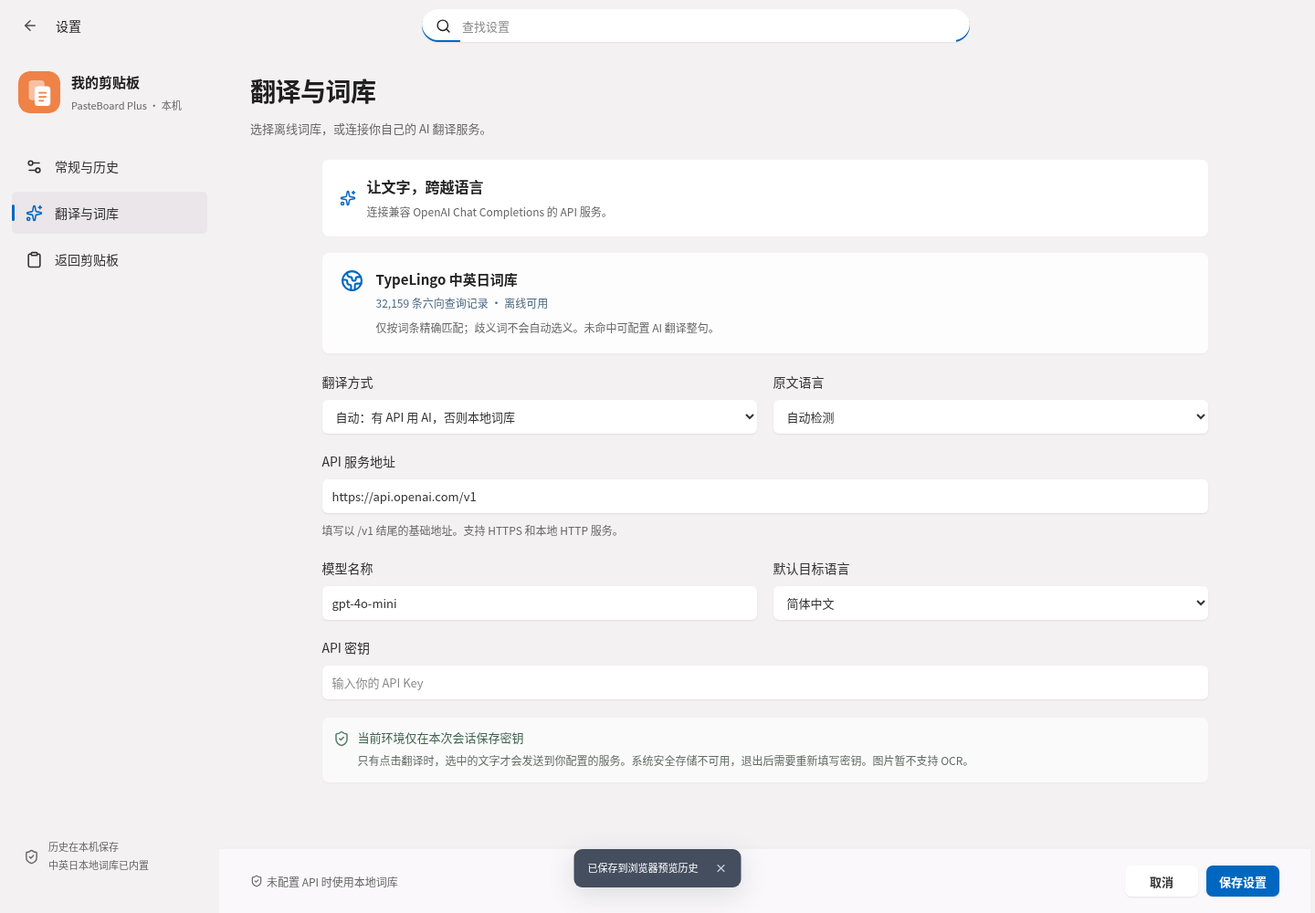
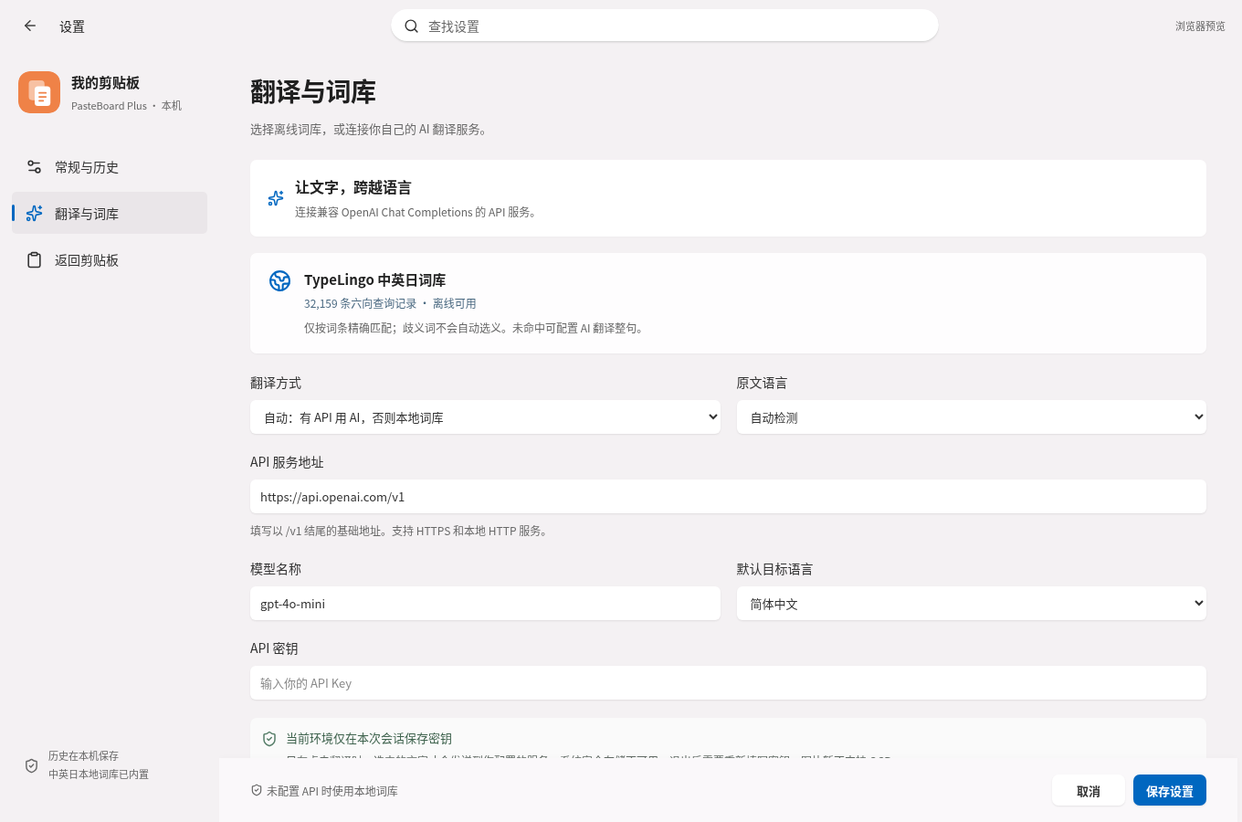
Unify large windows with Win11 Settings styling and fix unrecognized paste targets

diff --git a/src/App.tsx b/src/App.tsx
@@ -1,4 +1,4 @@
-import { useEffect, useMemo, useRef, useState, type ReactNode } from 'react';
+import { useEffect, useMemo, useRef, useState, type ReactNode, type Ref } from 'react';
 import { AlignLeft, ArrowDownUp, ArrowLeft, ArrowRight, Check, CheckCheck, ChevronDown, ChevronRight, Clipboard, ClipboardCheck, Code2, Copy, Folder, FolderOpen, Globe2, Image as ImageIcon, Keyboard, LayoutGrid, List, LoaderCircle, Maximize2, Minus, MoreHorizontal, Pause, Pin, Play, Plus, Search, Settings2, ShieldCheck, Sparkles, Tag, Trash2, X } from 'lucide-react';
 import { bridge } from './bridge';
 import CompactBoard from './CompactBoard';
@@ -18,6 +18,11 @@ function relativeTime(time: number) {
 }
 function shortcutParts(shortcut: string) { return shortcut.replace('CommandOrControl', bridge.platform === 'darwin' ? '⌘' : 'Ctrl').replace('Control', 'Ctrl').replace('Super', 'Win').split('+'); }
 function Shortcut({ value, small = false }: { value: string; small?: boolean }) { return <span className={`shortcut ${small ? 'small' : ''}`}>{shortcutParts(value).map((part, i) => <kbd key={i}>{part}</kbd>)}</span>; }
+function WindowHeader({ title, onBack, backLabel, search, onSearch, searchLabel, placeholder, inputRef, settings = false }: {
+  title: string; onBack(): void; backLabel: string; search: string; onSearch(value: string): void; searchLabel: string; placeholder: string; inputRef?: Ref<HTMLInputElement>; settings?: boolean;
+}) {
+  return <header className="fluent-window-caption"><div className="fluent-window-label"><button onClick={onBack} aria-label={backLabel}><ArrowLeft size={18} /></button><span>{title}</span></div><div className="fluent-window-search"><Search size={17} /><input ref={inputRef} aria-label={searchLabel} placeholder={placeholder} value={search} onChange={event => onSearch(event.target.value)} />{search && <button onClick={() => onSearch('')} aria-label={settings ? '清空设置搜索' : '清空搜索'}><X size={15} /></button>}</div><div className="fluent-window-controls">{bridge.isDesktop ? <div className="window-actions"><button onClick={() => void bridge.windowAction('minimize')} aria-label="最小化窗口"><Minus size={15} /></button><button onClick={() => void bridge.windowAction('maximize')} aria-label="最大化窗口"><Maximize2 size={13} /></button><button onClick={() => settings ? onBack() : void bridge.windowAction('hide')} aria-label={settings ? '关闭设置' : '收起到托盘'}><X size={18} /></button></div> : <span className="fluent-preview-tag">浏览器预览</span>}</div></header>;
+}
 function Modal({ title, subtitle, children, onClose, wide = false }: { title: string; subtitle?: string; children: ReactNode; onClose(): void; wide?: boolean }) {
   const container = useRef<HTMLDivElement>(null);
   const close = useRef(onClose);
@@ -71,7 +76,7 @@ function SettingsModal({ snapshot, initialTab, onClose, onSaved }: { snapshot: S
     finally { setSaving(false); }
   }
   return <div className="fluent-settings" role="dialog" aria-label="偏好设置" aria-modal="true">
-    <header className="fluent-settings-caption"><button onClick={onClose} aria-label="关闭弹窗"><ArrowLeft size={18} /></button><span>设置</span><div className="fluent-settings-search"><Search size={17} /><input aria-label="搜索设置" placeholder="查找设置" value={settingsSearch} onChange={event => { const query = event.target.value; setSettingsSearch(query); if (/api|翻译|语言|词库|模型|密钥/i.test(query)) setTab('ai'); else if (/快捷|历史|记录|图片|字体|粘贴|常规/i.test(query)) setTab('general'); }} /></div>{bridge.isDesktop && <div className="window-actions"><button onClick={() => void bridge.windowAction('minimize')} aria-label="最小化窗口"><Minus size={15} /></button><button onClick={() => void bridge.windowAction('maximize')} aria-label="最大化窗口"><Maximize2 size={13} /></button><button onClick={onClose} aria-label="关闭设置"><X size={18} /></button></div>}</header>
+    <WindowHeader title="设置" onBack={onClose} backLabel="关闭弹窗" settings search={settingsSearch} searchLabel="搜索设置" placeholder="查找设置" onSearch={query => { setSettingsSearch(query); if (/api|翻译|语言|词库|模型|密钥/i.test(query)) setTab('ai'); else if (/快捷|历史|记录|图片|字体|粘贴|常规/i.test(query)) setTab('general'); }} />
     <div className="fluent-settings-layout"><aside className="fluent-settings-nav"><div className="fluent-settings-profile"><img src="./icon.svg" alt="" /><div><strong>我的剪贴板</strong><span>PasteBoard Plus · 本机</span></div></div><button className={tab === 'general' ? 'active' : ''} onClick={() => { setTab('general'); setSettingsSearch(''); }}><Settings2 size={19} />常规与历史</button><button className={tab === 'ai' ? 'active' : ''} onClick={() => { setTab('ai'); setSettingsSearch(''); }}><Sparkles size={19} />翻译与词库</button><button onClick={onClose}><Clipboard size={19} />返回剪贴板</button><div className="fluent-settings-nav-footer"><ShieldCheck size={17} /><span>历史在本机保存<br />中英日本地词库已内置</span></div></aside><main className="fluent-settings-main"><div className="fluent-settings-page-title"><h1>{tab === 'general' ? '常规与历史' : '翻译与词库'}</h1><p>{tab === 'general' ? '自定义剪贴板的显示、快捷键和记录方式。' : '选择离线词库，或连接你自己的 AI 翻译服务。'}</p></div>
     <div className="settings-body">{tab === 'general' ? <>
       <div className="settings-section-title"><Keyboard size={18} /><div><h3>随时，唤起灵感</h3><p>在任何应用中，按下快捷键打开或收起剪贴板。</p></div></div>
@@ -200,21 +205,21 @@ export default function App() {
 
   if (snapshot.windowMode === 'compact') return <><CompactBoard snapshot={snapshot} onManage={id => void openManager(id)} onSettings={tab => void openCompactSettings(tab)} onError={message => notify(message, true)} />{toast && <div className={`toast ${toast.error ? 'error' : ''}`} role={toast.error ? 'alert' : 'status'}>{toast.message}<button aria-label="关闭提示" onClick={() => setToast(null)}><X size={14} /></button></div>}</>;
   if (settingsTab) return <><SettingsModal snapshot={snapshot} initialTab={settingsTab} onClose={closeSettings} onSaved={message => notify(message)} />{toast && <div className={`toast ${toast.error ? 'error' : ''}`} role={toast.error ? 'alert' : 'status'}>{toast.message}<button aria-label="关闭提示" onClick={() => setToast(null)}><X size={14} /></button></div>}</>;
-  return <div className="application">
-    <header className="titlebar"><div className="titlebar-brand"><img src="./icon.svg" alt="" /><span>PasteBoard <strong>Plus</strong></span><span className="version-badge">{bridge.isDesktop ? '0.1' : '浏览器预览'}</span></div><button className="return-compact" onClick={() => void run(() => bridge.setWindowMode('compact'))}><ArrowLeft size={13} /> 返回小窗口</button><div className="titlebar-center">给每一次复制，一个好去处。</div>{bridge.isDesktop ? <div className="window-actions"><button aria-label="最小化窗口" onClick={() => void bridge.windowAction('minimize')}><Minus size={15} /></button><button aria-label="最大化窗口" onClick={() => void bridge.windowAction('maximize')}><Maximize2 size={12} /></button><button aria-label="收起到托盘" onClick={() => void bridge.windowAction('hide')}><X size={16} /></button></div> : <span className="preview-label"><Globe2 size={12} /> WEB PREVIEW</span>}</header>
+  return <div className="application fluent-manager">
+    <WindowHeader title="剪贴板" onBack={() => void run(() => bridge.setWindowMode('compact'))} backLabel="返回小窗口" search={search} onSearch={setSearch} searchLabel="搜索历史记录" placeholder="搜索内容、链接或译文…" inputRef={searchRef} />
     <div className="workspace">
-      <aside className="sidebar"><div className="workspace-label"><div className="workspace-avatar"><Clipboard size={17} /></div><div><strong>我的剪贴板</strong><span>你的灵感中转站</span></div><ChevronDown size={14} /></div>
+      <aside className="sidebar"><div className="workspace-label"><img src="./icon.svg" alt="" /><div><strong>我的剪贴板</strong><span>PasteBoard Plus · 本机</span></div></div>
         <div className="navigation"><span className="section-label">工作空间</span>{navItem('all', '所有记录', <LayoutGrid size={17} />, entries.length)}{navItem('pinned', '置顶收藏', <Pin size={17} />, pinnedCount)}
           <span className="section-label category-label">智能分类</span>{Object.entries(kindLabels).map(([kind, label]) => { const Icon = kindIcons[kind as ContentKind]; return navItem(kind, label, <Icon size={17} />, counts[kind]); })}
           <div className="section-label custom-label">我的分类<button className="sidebar-add" onClick={() => { setCategoryModal(true); setCategoryError(''); setCategoryName(''); }} aria-label="新建分类"><Plus size={15} /></button></div>
           {categories.map(category => navItem(`category:${category.id}`, category.name, <span className="category-dot" style={{ background: category.color }} />, entries.filter(entry => entry.categoryId === category.id).length))}
           {!categories.length && <button className="empty-category" onClick={() => setCategoryModal(true)}><Plus size={14} /> 创建你的第一个分类</button>}
         </div>
-        <div className="sidebar-bottom"><div className="storage-info"><span>本地历史记录</span><strong>{entries.length}<span> / {settings.historyLimit === 0 ? '∞' : settings.historyLimit}</span></strong><div className="storage-track"><div style={{ width: `${Math.min(100, (settings.historyLimit === 0 ? 0 : (entries.length - pinnedCount) / settings.historyLimit * 100))}%` }} /></div><p><ShieldCheck size={12} /> 本地存储，安心留存</p></div><button className="sidebar-settings" onClick={() => setSettingsTab('general')}><Settings2 size={17} /> 偏好设置<span>{bridge.platform === 'darwin' ? '⌘' : 'Ctrl'} ,</span></button><div className="sidebar-signature"><span className="tiny-logo">p<span>+</span></span> Small things. Better flow.</div></div>
+        <div className="sidebar-bottom"><div className="storage-info"><span>本地历史记录</span><strong>{entries.length}<span> / {settings.historyLimit === 0 ? '∞' : settings.historyLimit}</span></strong><div className="storage-track"><div style={{ width: `${Math.min(100, (settings.historyLimit === 0 ? 0 : (entries.length - pinnedCount) / settings.historyLimit * 100))}%` }} /></div><p><ShieldCheck size={12} /> 本地存储，安心留存</p></div><button className="sidebar-settings" onClick={() => setSettingsTab('general')}><Settings2 size={17} /> 偏好设置<span>{bridge.platform === 'darwin' ? '⌘' : 'Ctrl'} ,</span></button></div>
       </aside>
 
       <main className="main-panel"><div className="main-heading"><div className="breadcrumb">工作空间 <ChevronRight size={12} /> 剪贴板</div><div className="heading-row"><div><h1>{filterLabel}<span className="heading-count">{filtered.length}</span></h1><p>留住刚刚复制的，也留住转瞬即逝的灵感。</p></div><button className="button secondary capture-button" onClick={() => void run(async () => { const result = await bridge.capture(); notify(result.message); })}><Plus size={16} /> 捕获剪贴板</button></div>
-        <div className="toolbar"><div className="search-box"><Search size={17} /><input ref={searchRef} aria-label="搜索历史记录" placeholder="搜索内容、链接或译文…" value={search} onChange={event => setSearch(event.target.value)} />{search ? <button aria-label="清空搜索" onClick={() => setSearch('')}><X size={14} /></button> : <span className="search-key">{bridge.platform === 'darwin' ? '⌘' : 'Ctrl'} F</span>}</div><div className="layout-switch"><button className={layout === 'grid' ? 'active' : ''} onClick={() => setLayout('grid')} aria-label="网格视图"><LayoutGrid size={16} /></button><button className={layout === 'list' ? 'active' : ''} onClick={() => setLayout('list')} aria-label="列表视图"><List size={17} /></button></div><details className="more-menu"><summary aria-label="更多操作"><MoreHorizontal size={20} /></summary><div><button onClick={() => { setClearModal(true); setClearPinned(false); }}><Trash2 size={15} /> 清理历史记录</button>{currentCategory && <button onClick={() => setDeleteCategoryModal(true)}><Tag size={15} /> 删除当前分类</button>}</div></details></div>
+        <div className="toolbar"><span className="manager-toolbar-label">历史记录 <span>· {filtered.length} 条</span></span><div className="layout-switch"><button className={layout === 'grid' ? 'active' : ''} onClick={() => setLayout('grid')} aria-label="网格视图"><LayoutGrid size={16} /></button><button className={layout === 'list' ? 'active' : ''} onClick={() => setLayout('list')} aria-label="列表视图"><List size={17} /></button></div><details className="more-menu"><summary aria-label="更多操作"><MoreHorizontal size={20} /></summary><div><button onClick={() => { setClearModal(true); setClearPinned(false); }}><Trash2 size={15} /> 清理历史记录</button>{currentCategory && <button onClick={() => setDeleteCategoryModal(true)}><Tag size={15} /> 删除当前分类</button>}</div></details></div>
       </div>
         {snapshot.warning && <div className="warning-banner" role="alert">{snapshot.warning}</div>}
         {!bridge.isDesktop && <div className="browser-banner"><Globe2 size={14} /><span>浏览器预览 · 历史仅保存在此浏览器；自动监听和全局快捷键请使用桌面版。</span>{entries.length === 0 && <button onClick={() => void run(() => bridge.loadExamples!())}>查看示例 <ArrowRight size={13} /></button>}</div>}
@@ -225,7 +230,7 @@ export default function App() {
         <footer className="main-status"><button className={`capture-status ${settings.captureEnabled ? 'enabled' : ''}`} onClick={() => void run(() => bridge.saveSettings({ ...settings, captureEnabled: !settings.captureEnabled }), settings.captureEnabled ? '已暂停记录' : '已继续记录')}><span className="status-dot" />{bridge.isDesktop ? settings.captureEnabled ? '正在记录剪贴板' : '已暂停记录' : '浏览器手动捕获'}{settings.captureEnabled ? <Pause size={11} /> : <Play size={11} />}</button><button className="status-shortcut" onClick={() => setSettingsTab('general')}><Keyboard size={13} /><Shortcut value={settings.shortcut} small /><span>唤出{bridge.isDesktop && !snapshot.shortcutRegistered ? ' · 未注册' : ''}</span></button></footer>
       </main>
 
-      <aside className={`detail-panel ${detailOpen ? 'mobile-open' : ''}`}><div className="detail-heading"><span>内容详情</span><span className="detail-label">INSPECTOR</span><button className="icon-button mobile-detail-close" aria-label="关闭详情" onClick={() => setDetailOpen(false)}><X size={18} /></button></div>{selected ? <>
+      <aside className={`detail-panel ${detailOpen ? 'mobile-open' : ''}`}><div className="detail-heading"><span>内容详情</span><span className="detail-label">预览与翻译</span><button className="icon-button mobile-detail-close" aria-label="关闭详情" onClick={() => setDetailOpen(false)}><X size={18} /></button></div>{selected ? <>
         <div className="detail-intro"><div className={`type-icon large ${selected.kind}`}>{(() => { const Icon = kindIcons[selected.kind]; return <Icon size={21} />; })()}</div><div><h2>{titleOf(selected.content, selected.kind)}</h2><span>{kindLabels[selected.kind]}<span className="subheading-dot">·</span>{relativeTime(selected.updatedAt)}</span></div><button className={`icon-button detail-pin ${selected.pinned ? 'is-pinned' : ''}`} aria-label={selected.pinned ? '取消详情置顶' : '置顶当前记录'} onClick={() => void run(() => bridge.pin(selected.id))}><Pin size={16} fill={selected.pinned ? 'currentColor' : 'none'} /></button></div>
         <div className="detail-tabs"><button className={detailTab === 'original' ? 'active' : ''} onClick={() => setDetailTab('original')}>原始内容</button><button className={detailTab === 'translation' ? 'active' : ''} onClick={() => setDetailTab('translation')}><Sparkles size={13} /> AI 翻译{selected.translation && <span className="translation-dot" />}</button></div>
         <div className="detail-scroll">{detailTab === 'original' ? <div className={`detail-content ${selected.kind === 'code' || selected.kind === 'path' ? 'monospace' : ''}`}>{selected.kind === 'image' && selected.image ? <button className="detail-image" onClick={() => void run(async () => setImagePreview(await bridge.getImage(selected.id)))} aria-label="查看原图"><img src={selected.image.thumbnail} alt="剪贴板图片预览" /><span><Maximize2 size={13} /> 查看原图</span></button> : <div className="original-text" data-testid="original-content">{selected.content}</div>}</div> : <div className="translation-result">{translatingId === selected.id ? <div className="translation-placeholder"><div className="ai-orb"><Sparkles size={26} className="pulse" /></div><h3>让文字跨越语言…</h3><p>正在请求你配置的 AI 服务</p></div> : selected.translation ? <><div className="translation-result-label"><span><CheckCheck size={14} />{LANGUAGES[selected.translation.language]} · {selected.translation.provider === 'local' ? '本地词库' : 'AI 翻译'}</span><button className="icon-button" aria-label="复制译文" onClick={() => void run(() => bridge.copyTranslation(selected.id), '译文已复制')}><Copy size={15} /></button></div><div className="translated-text" data-testid="translated-content">{selected.translation.text}</div></> : <div className="translation-placeholder"><div className="ai-orb"><Sparkles size={26} /></div><h3>好的表达，不止一种语言</h3><p>{selected.kind === 'image' ? '图片暂不支持文字识别。\n选择一段文字，试试 AI 翻译。' : '选择目标语言，让 AI 帮你\n准确传递每一句话。'}</p></div>}</div>}

diff --git a/src/fluent-windows.css b/src/fluent-windows.css
@@ -1,0 +1,124 @@
+/* Shared Windows 11 chrome. Keep the search input independent of form-field rules. */
+.fluent-window-caption{height:56px;flex-shrink:0;display:grid;grid-template-columns:240px minmax(0,1fr) 144px;align-items:center;background:#f4f1f3;color:#202020;-webkit-app-region:drag;user-select:none;z-index:5}
+.fluent-window-label{display:flex;align-items:center;gap:16px;padding-left:17px;font-size:14px;min-width:0}
+.fluent-window-label>button{display:grid;place-items:center;width:32px;height:32px;border-radius:4px;color:#424242;-webkit-app-region:no-drag}
+.fluent-window-label>button:hover{background:#00000008}
+.fluent-window-search{width:min(600px,calc(100% - 32px));height:36px;justify-self:center;display:flex;align-items:center;gap:10px;padding:0 14px;background:#ffffffef;border-radius:20px;box-shadow:0 1px 2px #00000012,inset 0 -1px #88888855;color:#333;-webkit-app-region:no-drag;overflow:hidden}
+.fluent-window-caption .fluent-window-search input{display:block;flex:1;width:100%;min-width:0;height:34px;min-height:0;margin:0;padding:0;background:transparent;border:0;border-radius:0;box-shadow:none!important;color:#222;font-size:14px;line-height:normal;align-self:center}
+.fluent-window-caption .fluent-window-search input::placeholder{font-size:14px;color:#696969}
+.fluent-window-search:focus-within{box-shadow:0 1px 2px #00000012,inset 0 -2px #0067c0}
+.fluent-window-search>svg{flex-shrink:0}
+.fluent-window-search>button{width:24px;height:26px;display:grid;place-items:center;border-radius:4px;color:#666}
+.fluent-window-search>button:hover{background:#00000008}
+.fluent-window-controls{height:100%;display:flex;justify-content:flex-end;align-items:stretch;-webkit-app-region:no-drag}
+.fluent-window-controls .window-actions{height:100%}
+.fluent-window-controls .window-actions button{width:46px;color:#333}
+.fluent-window-controls .window-actions button:last-child:hover{color:white;background:#c42b1c}
+.fluent-preview-tag{align-self:center;padding-right:18px;font-size:11px;color:#666}
+.fluent-settings .settings-body{max-width:none;margin:0}
+.fluent-settings-page-title{padding-bottom:23px}
+.fluent-settings-main{padding-top:20px}
+.fluent-settings button:focus-visible,.fluent-manager button:focus-visible,.fluent-manager summary:focus-visible{outline-color:#0067c0}
+
+/* Management uses the same shell, profile, navigation, and surfaces as Settings. */
+.fluent-manager{background:#f4f1f3;color:#202020;--sidebar:240px;--detail:336px;--accent:#0067c0;--muted:#666}
+.fluent-manager .workspace,.fluent-manager .main-panel{background:transparent}
+.fluent-manager .sidebar{width:var(--sidebar);padding:22px 13px 16px;background:transparent;box-shadow:none;gap:0}
+.fluent-manager .workspace-label{padding:0 7px 30px;gap:12px}
+.fluent-manager .workspace-label>img{width:46px;height:46px;border-radius:12px;flex-shrink:0}
+.fluent-manager .workspace-label strong{font-size:15px;color:#202020;margin-bottom:7px;font-weight:600}
+.fluent-manager .workspace-label span{font-size:11px;color:#666;letter-spacing:0}
+.fluent-manager .section-label{font-size:11px;letter-spacing:0;color:#777;padding-left:15px;margin-top:16px;margin-bottom:7px}
+.fluent-manager .section-label:first-child{margin-top:0}
+.fluent-manager .nav-item{height:43px;padding:0 15px;margin:2px 0;gap:13px;color:#333;border-radius:5px;font-size:14px;position:relative;font-weight:400;box-shadow:none}
+.fluent-manager .nav-item:hover{background:#00000005}
+.fluent-manager .nav-item.active{background:#eae6e9;color:#202020}
+.fluent-manager .nav-item.active:before{content:"";position:absolute;left:0;top:12px;height:18px;width:3px;background:#0067c0;border-radius:2px}
+.fluent-manager .nav-item.active .nav-icon{color:#0067c0}
+.fluent-manager .nav-item.active .nav-count{background:transparent;color:#555;font-weight:400}
+.fluent-manager .nav-count{font-size:11px;color:#777}
+.fluent-manager .empty-category{color:#666;font-size:12px;padding-left:15px}
+.fluent-manager .sidebar-bottom{margin-top:16px}
+.fluent-manager .storage-info{padding:12px 15px;background:#ffffff80;border-radius:7px;box-shadow:none}
+.fluent-manager .storage-info>span,.fluent-manager .storage-info p{color:#666;font-size:11px}
+.fluent-manager .storage-info strong{font-size:22px;color:#333}
+.fluent-manager .storage-info strong>span{font-size:14px;color:#777}
+.fluent-manager .storage-track{background:#ddd8de;height:3px;margin-block:10px}
+.fluent-manager .storage-track>div{background:#0067c0}
+.fluent-manager .sidebar-settings{font-size:14px;gap:13px;border-radius:5px;color:#333;box-shadow:none;margin-top:8px}
+.fluent-manager .sidebar-settings:hover{background:#eae6e9}
+.fluent-manager .sidebar-settings>span{font-size:11px;color:#777}
+.fluent-manager .main-heading{padding:24px 28px 0;background:transparent;box-shadow:none}
+.fluent-manager .breadcrumb{font-size:12px;color:#666;margin-bottom:11px}
+.fluent-manager .heading-row h1{font-size:28px;font-weight:600;letter-spacing:-.5px;color:#202020}
+.fluent-manager .heading-count{font-size:13px;background:#e9e5e9;color:#666;padding:3px 9px;border-radius:5px}
+.fluent-manager .heading-row p{font-size:13px;color:#696969;margin-top:10px;line-height:1.8}
+.fluent-manager .capture-button{font-size:12px;color:#333;background:white;box-shadow:0 1px 2px #00000017;border-radius:5px;height:34px;padding:0 12px}
+.fluent-manager .toolbar{margin-top:23px;padding-bottom:18px;gap:9px}
+.manager-toolbar-label{flex:1;font-size:14px;color:#333;font-weight:600}
+.manager-toolbar-label>span{font-size:12px;color:#666;font-weight:400;margin-left:5px}
+.fluent-manager .layout-switch{background:#fff;border-radius:5px;box-shadow:0 1px 2px #00000010}
+.fluent-manager .layout-switch button{color:#666;width:31px;height:31px}
+.fluent-manager .layout-switch button.active{color:#0067c0;background:#e7f0fa;box-shadow:none;border-radius:4px}
+.fluent-manager .more-menu>summary{color:#444;width:31px;height:31px;border-radius:5px;background:#fff;box-shadow:0 1px 2px #00000010}
+.fluent-manager .more-menu>div{background:#fafafa;border-radius:7px;box-shadow:0 4px 20px #00000022}
+.fluent-manager .more-menu button{font-size:13px;color:#333;padding:10px}
+.fluent-manager .records-scroll{padding:0 28px}
+.fluent-manager .records-subheading{padding-top:13px;font-size:12px;color:#666}
+.fluent-manager .sort-control,.fluent-manager .sort-control select{font-size:12px;color:#666}
+.fluent-manager .entries.grid{grid-template-columns:repeat(2,minmax(0,1fr));gap:13px}
+.fluent-manager .entry-card{background:#ffffffdd;border-radius:7px;box-shadow:0 1px 2px #00000015;transition:background .15s,box-shadow .15s}
+.fluent-manager .entry-card:hover{background:white;box-shadow:0 2px 6px #0000001a}
+.fluent-manager .entry-card.selected{background:#f8fbff;box-shadow:inset 3px 0 #0067c0,0 1px 3px #0000001a}
+.fluent-manager .card-heading h3{font-size:14px;font-weight:600;color:#202020}
+.fluent-manager .text-preview,.fluent-manager .url-preview,.fluent-manager .path-preview p{font-size:13px;line-height:1.8;color:#555}
+.fluent-manager .card-footer{font-size:11px;color:#777;background:#ffffff55}
+.fluent-manager .card-time{font-size:10px;color:#777}
+.fluent-manager .card-pin,.fluent-manager .card-copy{color:#666}
+.fluent-manager .card-pin.is-pinned{color:#0067c0}
+.fluent-manager .card-category{background:#edf2f9;color:#4f6d8a}
+.fluent-manager .type-icon{background:#eef3f9;color:#477496}
+.fluent-manager .browser-banner{margin-inline:28px;background:#e9edf3;color:#525f6c;font-size:11px;border-radius:5px;padding:10px 12px}
+.fluent-manager .browser-banner button{color:#0067c0}
+.fluent-manager .main-status{background:transparent;box-shadow:none;font-size:11px;padding-inline:28px;color:#666}
+.fluent-manager .capture-status,.fluent-manager .status-shortcut{color:#666;font-size:11px}
+.fluent-manager .capture-status.enabled{color:#476b58}
+.fluent-manager .records-end{font-size:11px;color:#888}
+.fluent-manager .detail-panel{margin:22px 24px 20px 0;background:#ffffffb8;border-radius:9px;box-shadow:0 1px 2px #0000000c;overflow:hidden;width:var(--detail)}
+.fluent-manager .detail-heading{font-size:13px;color:#333;border-bottom:1px solid #00000008}
+.fluent-manager .detail-label{font-size:10px;color:#777;letter-spacing:0}
+.fluent-manager .detail-intro h2{font-size:15px;color:#222}
+.fluent-manager .detail-intro>div:nth-child(2)>span{font-size:11px;color:#777}
+.fluent-manager .detail-tabs button{font-size:13px;color:#666}
+.fluent-manager .detail-tabs button.active{color:#0067c0}
+.fluent-manager .detail-tabs button.active:after{background:#0067c0}
+.fluent-manager .original-text,.fluent-manager .translated-text{font-size:14px;line-height:1.9;color:#333}
+.fluent-manager .entry-metadata{background:#f7f6f7;border-radius:6px;padding:12px;color:#666}
+.fluent-manager .entry-metadata>div{font-size:11px;color:#666}
+.fluent-manager .entry-metadata select{font-size:11px;color:#333;background:white}
+.fluent-manager .ai-box{background:#f2f5fa;border-radius:7px;box-shadow:0 1px 2px #00000008}
+.fluent-manager .ai-box-heading{font-size:13px;color:#333}
+.fluent-manager .language-row,.fluent-manager .language-row select{font-size:12px;color:#555}
+.fluent-manager .translate-button{color:white;background:#0067c0;font-size:13px;border-radius:5px}
+.fluent-manager .ai-box>p{font-size:10px;color:#666}
+.fluent-manager .detail-actions{background:#fff9;box-shadow:0 -1px #00000007}
+.fluent-manager .button.primary{background:#0067c0;color:white;box-shadow:0 1px 2px #00000015;border-radius:5px}
+.fluent-manager .detail-actions>p{font-size:11px;color:#666}
+.fluent-manager .empty-state h2{font-size:19px;color:#333}
+.fluent-manager .empty-state p{font-size:13px;color:#666}
+.fluent-manager .empty-state .eyebrow{color:#777}
+.fluent-manager .empty-shortcut{color:#666;font-size:12px}
+.fluent-manager .detail-empty h3{color:#444;font-size:14px}
+.fluent-manager .detail-empty p{color:#777;font-size:12px}
+.fluent-manager .detail-empty-feature{color:#647a6d;font-size:11px}
+.fluent-manager .modal{background:#faf8fa;color:#222;border-radius:9px}
+.fluent-manager .modal-heading h2{color:#222}.fluent-manager .modal-heading p{color:#666}
+.fluent-manager .modal-footer{background:#f4f1f3}
+.fluent-manager .field-label,.fluent-manager .checkbox-label{font-size:13px;color:#444}
+.fluent-manager .modal input:not([type=checkbox]){background:white;color:#333;box-shadow:0 1px 2px #00000020;font-size:14px}
+.fluent-manager .modal input:focus{box-shadow:0 1px 0 1px #0067c0}
+@media(min-width:1650px){.fluent-manager .entries.grid{grid-template-columns:repeat(3,minmax(0,1fr))}}
+@media(max-width:1100px){.fluent-manager{--detail:292px}.fluent-manager .main-heading{padding-inline:20px}.fluent-manager .records-scroll{padding-inline:20px}.fluent-manager .detail-panel{margin-right:18px}.fluent-manager .browser-banner{margin-inline:20px}.fluent-manager .heading-row p{max-width:250px;font-size:12px}}
+@media(max-width:900px){.fluent-manager .detail-panel{display:none}.fluent-manager .detail-panel.mobile-open{display:flex;position:fixed;top:56px;right:0;bottom:0;margin:0;width:min(350px,calc(100vw - 20px));border-radius:9px 0 0 0;background:#faf8fa;box-shadow:-8px 0 40px #00000020}.fluent-manager .heading-row p{max-width:none}}
+@media(max-width:800px){.fluent-window-caption{grid-template-columns:180px minmax(0,1fr) 120px}.fluent-manager{--sidebar:180px}.fluent-manager .sidebar{padding-inline:9px}.fluent-manager .workspace-label{gap:8px;padding-inline:3px}.fluent-manager .workspace-label>img{width:35px;height:35px}.fluent-manager .workspace-label strong{font-size:13px}.fluent-manager .workspace-label span{font-size:10px}.fluent-manager .nav-item{font-size:13px;padding-inline:11px;gap:10px}.fluent-window-controls .window-actions button{width:39px}}
+@media(max-width:570px){.fluent-window-caption{height:48px;grid-template-columns:96px minmax(0,1fr) 8px}.fluent-window-label{padding-left:7px;gap:4px;font-size:12px}.fluent-window-label>button{width:28px}.fluent-window-search{width:calc(100% - 8px);height:32px;padding-inline:10px;gap:7px}.fluent-window-caption .fluent-window-search input{height:30px;font-size:12px}.fluent-window-caption .fluent-window-search input::placeholder{font-size:12px}.fluent-window-controls{display:none}.fluent-manager{--sidebar:52px;min-height:0}.fluent-manager .sidebar{padding:18px 5px 0}.fluent-manager .workspace-label,.fluent-manager .section-label,.fluent-manager .storage-info,.fluent-manager .sidebar-settings>span,.fluent-manager .empty-category{display:none}.fluent-manager .nav-item{padding:0;justify-content:center;height:40px;margin-bottom:7px}.fluent-manager .nav-item>span:not(.nav-icon){display:none}.fluent-manager .nav-item.active:before{top:11px}.fluent-manager .sidebar-settings{padding:0;justify-content:center}.fluent-manager .main-heading{padding:18px 14px 0}.fluent-manager .breadcrumb{font-size:10px;margin-bottom:8px}.fluent-manager .heading-row h1{font-size:22px}.fluent-manager .heading-row p{font-size:11px;margin-top:8px}.fluent-manager .capture-button{font-size:10px;padding-inline:8px;gap:5px;flex-shrink:0}.fluent-manager .toolbar{margin-top:16px;padding-bottom:13px;gap:7px}.manager-toolbar-label{font-size:12px}.manager-toolbar-label>span{font-size:10px}.fluent-manager .records-scroll{padding-inline:14px}.fluent-manager .entries.grid{grid-template-columns:1fr;gap:12px}.fluent-manager .browser-banner{margin-inline:14px;font-size:10px;line-height:1.7}.fluent-manager .main-status{padding-inline:14px;font-size:10px}.fluent-manager .capture-status{font-size:10px}.fluent-manager .detail-panel.mobile-open{top:48px}.fluent-manager .card-footer{font-size:10px}.fluent-manager .card-heading h3{font-size:14px}.fluent-manager .empty-state h2{font-size:17px}.fluent-manager .empty-state p{font-size:12px}}

diff --git a/electron/main.ts b/electron/main.ts
@@ -7,6 +7,7 @@ import { idSchema, languageSchema, settingsSchema } from './schema';
 import { TranslationService } from './translation-service';
 import { WindowsFocus, type FocusContext } from './windows-focus';
 import { popupPosition } from '../shared/popup-position';
+import { hasFocusTarget } from '../shared/focus-target';
 import type { Snapshot } from '../shared/types';
 import { classify } from '../shared/classify';
 
@@ -46,7 +47,7 @@ function canSecurelyStoreKey() {
 function snapshot(): Snapshot {
   return { windowMode, entries: store.entries, categories: store.categories, settings: store.settings,
     hasApiKey: Boolean(apiKey), keyStorage: canSecurelyStoreKey() ? 'secure' : 'session',
-    shortcutRegistered, warning: captureWarning || store.warning, insertion: { supported: process.platform === 'win32' && !focusError, hasTarget: Boolean(focusTarget?.editable), caretLocated: Boolean(focusTarget?.caretLocated), message: focusError } };
+    shortcutRegistered, warning: captureWarning || store.warning, insertion: { supported: process.platform === 'win32' && !focusError, hasTarget: hasFocusTarget(focusTarget), caretLocated: Boolean(focusTarget?.caretLocated), message: focusError } };
 }
 function broadcast() {
   if (window && !window.isDestroyed()) window.webContents.send('pasteboard:changed', snapshot());
@@ -95,9 +96,19 @@ async function openCompact() {
   const generation = ++opening;
   openingPending = true;
   focusTarget = null; focusError = null;
+  if (process.platform === 'win32' && windowMode === 'manager' && window?.isVisible()) {
+    window.hide();
+    await new Promise(resolve => setTimeout(resolve, 75));
+    if (generation !== opening) return;
+  }
   if (focusService && window) {
     try {
-      const target = await focusService.capture(ownWindowHandle());
+      let target = await focusService.capture(ownWindowHandle());
+      if (!hasFocusTarget(target)) {
+        await new Promise(resolve => setTimeout(resolve, 100));
+        if (generation !== opening) return;
+        target = await focusService.capture(ownWindowHandle());
+      }
       if (generation !== opening) return;
       focusTarget = target;
     } catch (error) { focusError = error instanceof Error ? error.message : '无法读取输入光标。'; }
@@ -339,7 +350,7 @@ else {
     void poll(); timer = setInterval(() => void poll(), 800);
     let following = false;
     focusTimer = setInterval(async () => {
-      if (following || pasting || openingPending || windowMode !== 'compact' || !window?.isVisible() || !focusService || !focusTarget?.editable) return;
+      if (following || pasting || openingPending || windowMode !== 'compact' || !window?.isVisible() || !focusService || !focusTarget || !hasFocusTarget(focusTarget)) return;
       following = true;
       const previous = focusTarget;
       try {

diff --git a/tests/e2e/app.spec.ts b/tests/e2e/app.spec.ts
@@ -129,3 +129,30 @@ test('Win11 popup translates with the supplied dictionary without an API and cop
   await expect(page.getByText('32,159 条六向查询记录 · 离线可用')).toBeVisible();
   await page.screenshot({ path: 'test-results/win11-settings.png', fullPage: true });
 });
+
+test('Win11 manager and settings keep the same aligned search field', async ({ page }) => {
+  await page.setViewportSize({ width: 1360, height: 900 });
+  await page.goto('/');
+  await page.getByRole('button', { name: '管理记录', exact: true }).click();
+  await page.getByRole('button', { name: '体验示例', exact: true }).click();
+  await expect(page.getByRole('heading', { name: '所有记录' })).toBeVisible();
+  const managerSearch = await page.getByRole('textbox', { name: '搜索历史记录' }).boundingBox();
+  await page.screenshot({ path: 'test-results/win11-manager.png' });
+  await page.getByRole('textbox', { name: '搜索历史记录' }).fill('const ideas');
+  await expect(page.getByTestId('entry-card')).toHaveCount(1);
+  await page.getByRole('button', { name: '清空搜索', exact: true }).click();
+  await page.getByRole('button', { name: /^偏好设置/ }).click();
+  const settingsSearch = page.getByRole('textbox', { name: '搜索设置' });
+  const settingsBounds = await settingsSearch.boundingBox();
+  expect(settingsBounds!.x).toBeCloseTo(managerSearch!.x, 0);
+  expect(settingsBounds!.y).toBeCloseTo(managerSearch!.y, 0);
+  expect(settingsBounds!.width).toBeCloseTo(managerSearch!.width, 0);
+  const container = await page.locator('.fluent-window-search').boundingBox();
+  const icon = await page.locator('.fluent-window-search > svg').boundingBox();
+  expect(Math.abs(settingsBounds!.y + settingsBounds!.height / 2 - container!.y - container!.height / 2)).toBeLessThan(1);
+  expect(Math.abs(icon!.y + icon!.height / 2 - container!.y - container!.height / 2)).toBeLessThan(1);
+  await settingsSearch.fill('API');
+  await expect(page.getByRole('heading', { name: '翻译与词库', exact: true })).toBeVisible();
+  await page.getByRole('button', { name: '清空设置搜索' }).click();
+  await page.screenshot({ path: 'test-results/win11-settings-aligned.png' });
+});

diff --git a/tests/windows-focus.test.ts b/tests/windows-focus.test.ts
@@ -1,0 +1,27 @@
+import { describe, expect, it, vi } from 'vitest';
+import { WindowsFocus, type FocusContext } from '../electron/windows-focus';
+import { hasFocusTarget } from '../shared/focus-target';
+
+const chromium: FocusContext = { window: '812', control: '813', process: 1200, elementKey: '', editable: false, caretLocated: false, x: 0, y: 0, width: 0, height: 0 };
+describe('Windows targets without editable accessibility patterns', () => {
+  it('retains a captured keyboard target even when no caret/Edit pattern is exposed', () => {
+    expect(hasFocusTarget(chromium)).toBe(true);
+    expect(hasFocusTarget({ ...chromium, control: '0', elementKey: '42-1-2' })).toBe(true);
+  });
+  it('rejects missing windows and identities instead of sending paste blindly', () => {
+    expect(hasFocusTarget(null)).toBe(false);
+    expect(hasFocusTarget({ ...chromium, window: '0' })).toBe(false);
+    expect(hasFocusTarget({ ...chromium, control: '0' })).toBe(false);
+    expect(hasFocusTarget({ ...chromium, process: 0 })).toBe(false);
+  });
+  it('forwards an unrecognized editor to native focus validation, rather than reporting no input', async () => {
+    const service = new WindowsFocus('/unused');
+    const request = vi.spyOn(service as unknown as { request(command: string, payload: object): Promise<unknown> }, 'request')
+      .mockResolvedValue({ pasted: true, message: 'sent' });
+    await expect(service.paste(chromium)).resolves.toMatchObject({ pasted: true });
+    expect(request).toHaveBeenCalledWith('paste', { window: '812', control: '813', process: 1200, elementKey: '' });
+    request.mockClear();
+    await expect(service.paste({ ...chromium, window: '0' })).resolves.toMatchObject({ pasted: false });
+    expect(request).not.toHaveBeenCalled();
+  });
+});

diff --git a/electron/windows-focus.ts b/electron/windows-focus.ts
@@ -2,6 +2,7 @@ import { spawn, type ChildProcessWithoutNullStreams } from 'node:child_process';
 import { readFileSync } from 'node:fs';
 import { createInterface } from 'node:readline';
 import { join } from 'node:path';
+import { hasFocusTarget } from '../shared/focus-target';
 
 export interface FocusContext { window: string; control: string; process: number; elementKey: string; editable: boolean; caretLocated: boolean; x: number; y: number; width: number; height: number }
 export class WindowsFocus {
@@ -47,7 +48,7 @@ export class WindowsFocus {
   }
   capture(ownWindow: string) { return this.request<FocusContext>('capture', { ownWindow }); }
   paste(target: FocusContext) {
-    if (!target.editable) return Promise.resolve({ pasted: false, message: '未找到原输入框。请先点击目标输入框，再按快捷键唤出。' });
+    if (!hasFocusTarget(target)) return Promise.resolve({ pasted: false, message: '未捕获到原窗口的键盘焦点。内容已复制，请在目标输入框重新按快捷键唤出。' });
     return this.request<{ pasted: boolean; message: string }>('paste', { window: target.window, control: target.control, process: target.process, elementKey: target.elementKey });
   }
   stop() { const child = this.child; this.child = undefined; this.ready = undefined; child?.kill(); for (const item of this.pending.values()) { clearTimeout(item.timer); item.reject(new Error('Windows 输入辅助服务已停止，请重新唤出。')); } this.pending.clear(); }

diff --git a/shared/focus-target.ts b/shared/focus-target.ts
@@ -1,0 +1,7 @@
+export interface TargetIdentity { window: string; control: string; process: number; elementKey: string }
+// Chromium and custom editors may expose a focused HWND without ValuePattern/Edit.
+// A missing editable pattern/caret is not evidence that the original target is gone.
+export function hasFocusTarget(target: TargetIdentity | null | undefined): target is TargetIdentity {
+  return Boolean(target && /^-?[1-9]\d*$/.test(target.window) && target.process > 0
+    && (/^-?[1-9]\d*$/.test(target.control) || target.elementKey));
+}

diff --git a/src/main.tsx b/src/main.tsx
@@ -2,5 +2,6 @@ import React from 'react';
 import { createRoot } from 'react-dom/client';
 import App from './App';
 import './styles.css';
+import './fluent-windows.css';
 
 createRoot(document.getElementById('root')!).render(<React.StrictMode><App /></React.StrictMode>);

diff --git a/assets/windows/FocusBridge.cs b/assets/windows/FocusBridge.cs
@@ -62,9 +62,9 @@ namespace PasteBoardNative {
         if (element == null || element.Current.ProcessId != result.process) return result;
         result.elementKey = string.Join("-", element.GetRuntimeId());
         object pattern;
-        if (element.TryGetCurrentPattern(ValuePattern.Pattern, out pattern)) result.editable = !((ValuePattern)pattern).Current.IsReadOnly;
+        if (element.TryGetCurrentPattern(ValuePattern.Pattern, out pattern)) result.editable = result.editable || !((ValuePattern)pattern).Current.IsReadOnly;
         if (element.Current.ControlType == ControlType.Edit) result.editable = true;
-        if (result.editable && !result.caretLocated && element.TryGetCurrentPattern(TextPattern.Pattern, out pattern)) {
+        if (!result.caretLocated && element.TryGetCurrentPattern(TextPattern.Pattern, out pattern)) {
           var textPattern = (TextPattern)pattern;
           var selection = textPattern.GetSelection();
           if (selection != null && selection.Length > 0) {

diff --git a/README.md b/README.md
@@ -2,13 +2,13 @@
 
 给每一次复制，一个好去处。一个类似 Windows + V 的桌面剪贴板，基于 Electron、React 和 TypeScript，主要面向 Windows，也可在 macOS / Linux 上开发运行。
 
-## 下载 v0.1.3
+## 下载 v0.1.4
 
-- [Windows x64 安装程序](installers/PasteBoard-Plus-Setup-0.1.3-x64.exe?raw=true)：双击安装，可选择安装位置。
-- [Windows x64 便携 ZIP](installers/PasteBoard-Plus-0.1.3-win-x64.zip?raw=true)：完整解压后运行 `PasteBoard Plus.exe`。
+- [Windows x64 安装程序](installers/PasteBoard-Plus-Setup-0.1.4-x64.exe?raw=true)：双击安装，可选择安装位置。
+- [Windows x64 便携 ZIP](installers/PasteBoard-Plus-0.1.4-win-x64.zip?raw=true)：完整解压后运行 `PasteBoard Plus.exe`。
 - [SHA-256 校验文件](installers/SHA256SUMS.txt)。安装包通过 Git LFS 存储；直接点击上述链接下载即可。克隆时如需同时获取二进制文件，请安装 Git LFS。
 
-此版本采用 Win11 风格的浅色卡片、阴影与清晰文字。默认使用 400×580 小窗口，打开设置或管理记录时才切换到大窗口；内置用户提供的中英日词库。安装包未签名；Windows 保持焦点、光标跟随与自动粘贴已完成实现和编译检查，尚未在真实 Windows 桌面验证。
+此版本让小窗口、记录管理和设置统一采用 Win11 风格的浅色卡片、侧栏、阴影与清晰文字。管理与设置共用标题栏和居中搜索框，修正输入文字与图标的垂直对齐。默认使用 400×580 小窗口，打开设置或管理记录时才切换到大窗口；内置用户提供的中英日词库。安装包未签名；Windows 保持焦点、光标跟随与自动粘贴已完成实现和编译检查，尚未在真实 Windows 桌面验证。
 
 ## 已实现
 
@@ -30,6 +30,8 @@ Windows 小窗口保留输入焦点，因此方向键和打字仍作用于原输
 默认小窗口实测预览：
 
 <img src="docs/compact.png" alt="400×580 剪贴板小窗口" width="320" />
+
+<img src="docs/manager.png" alt="Win11 风格的记录管理大窗口" width="900" />
 
 <img src="docs/settings.png" alt="Win11 风格的翻译与词库设置" width="900" />
 
@@ -54,7 +56,7 @@ npm run dist:win     # Windows x64 安装程序 + 便携 ZIP
 npm run pack         # 当前平台的未压缩应用目录
 ```
 
-Windows 安装程序输出到 `release/PasteBoard-Plus-Setup-0.1.3-x64.exe`，可选择安装位置并创建桌面快捷方式。便携包输出到 `release/PasteBoard-Plus-0.1.3-win-x64.zip`。解压整个 ZIP 后运行 `PasteBoard Plus.exe`。Windows 输入辅助服务使用系统自带的 Windows PowerShell / .NET Framework，无需安装开发 SDK。
+Windows 安装程序输出到 `release/PasteBoard-Plus-Setup-0.1.4-x64.exe`，可选择安装位置并创建桌面快捷方式。便携包输出到 `release/PasteBoard-Plus-0.1.4-win-x64.zip`。解压整个 ZIP 后运行 `PasteBoard Plus.exe`。Windows 输入辅助服务使用系统自带的 Windows PowerShell / .NET Framework，无需安装开发 SDK。v0.1.4 修正了自绘输入控件未暴露 Edit / ValuePattern 时误报“未找到原输入框”的判断；仅无法获取精确光标不再阻止粘贴。粘贴前仍检查原窗口、进程及焦点身份，目标改变时拒绝发送。
 
 浏览器预览明确标注其模式：只能在点击「捕获剪贴板」时读取浏览器获准访问的文字，历史保存在此浏览器中。示例须手动载入；不会把示例加入桌面历史。系统全局快捷键、自动监听和 AI 请求由桌面版提供。
 
@@ -147,12 +149,12 @@ tests/           单元测试和浏览器端到端测试
 
 界面依赖在构建时合并，不再随运行时重复携带完整的 React、图标库及 Zod 源码；发行包不含调试 source map。Chromium 只保留中英文资源，AI 翻译仍支持原有全部目标语言。安装包仍包含离线运行所需的 Electron / Chromium，没有改成需要联网下载主体的安装器。
 
-下载目录仅保留当前版本，旧版本可从 `v0.1.1`、`v0.1.2` 标签获取。
+下载目录仅保留当前版本，旧版本可从 `v0.1.1`、`v0.1.2`、`v0.1.3` 标签获取。
 
-与 v0.1.1 的实测体积对比（v0.1.3 离线完整包，含本地词库）：
+与 v0.1.1 的实测体积对比（v0.1.4 离线完整包，含本地词库）：
 
 | 项目 | 旧版 | 新版 | 减少 |
 | --- | ---: | ---: | ---: |
 | 安装版 EXE | 155.72 MiB | 108.10 MiB | 30.6% |
 | 便携 ZIP | 151.13 MiB | 135.95 MiB | 10.0% |
-| 解压后应用 | 400.28 MiB | 312.16 MiB | 22.0% |
+| 解压后应用 | 400.28 MiB | 312.17 MiB | 22.0% |
